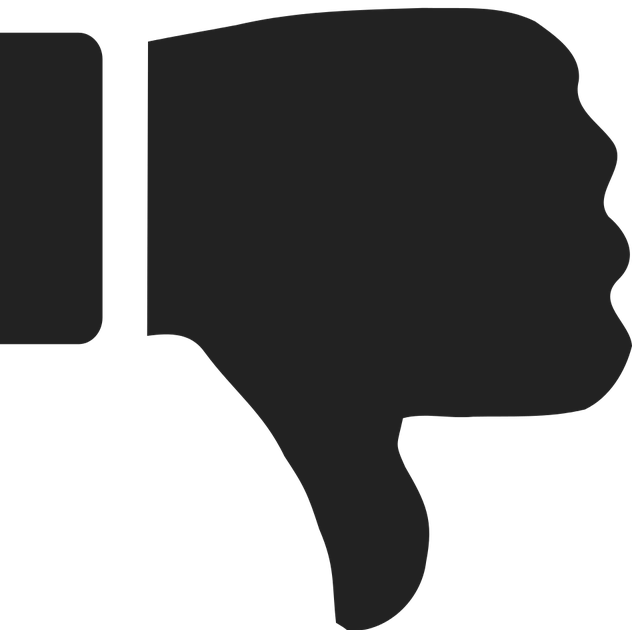
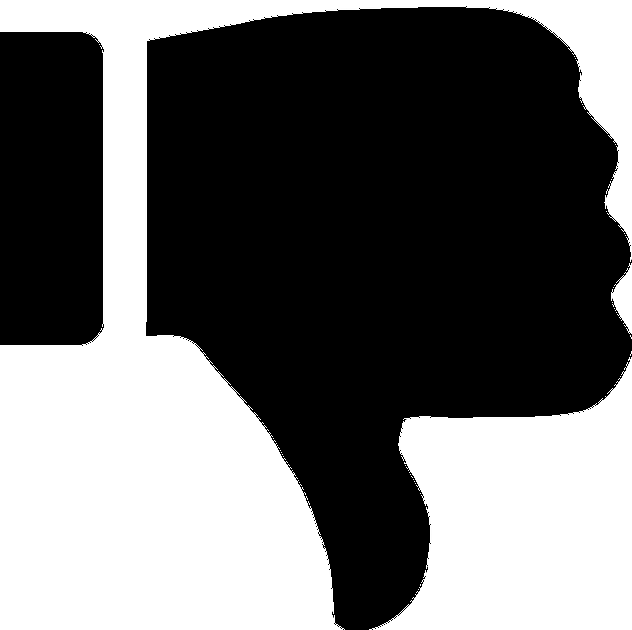
Like dislike function done
Small bug fixes all around the complete website. Like dislike system shows which one is selected

diff --git a/videoshow.php b/videoshow.php
@@ -75,11 +75,41 @@ week 4 door Thijs Rijkers
                             mysqli_stmt_bind_result($stmt, $nt);
                             mysqli_stmt_store_result($stmt);
                             $dislikes = mysqli_stmt_num_rows($stmt);
+                            //Worden alle gegevens opgehaald uit de database van de likes
+                            $userID = $_SESSION['id'];
+                            $VideoID = $_GET["videoid"];
+                            $query = "SELECT liked, disliked FROM likedvideos WHERE videoID = ? AND userID = ?";
+                            if($stmt = mysqli_prepare($DBConnect, $query))
+                            {
+                                if(mysqli_stmt_bind_param($stmt, 'ii', $VideoID, $userID))
+                                {
+                                    if(mysqli_stmt_execute($stmt))
+                                    {
+
+                                    }else {
+                                        echo "er is iets misgegaan. Probeer het later opnieuw";
+                                    }
+                                }else {
+                                    echo "er is iets misgegaan. Probeer het later opnieuw";
+                                }
+                            }
+                            else {
+                                echo "er is iets misgegaan. Probeer het later opnieuw";
+                            }
+                            mysqli_stmt_bind_result($stmt, $liked1, $disliked1);
+                            mysqli_stmt_store_result($stmt);
+                            $rows = mysqli_stmt_num_rows($stmt);
+                            $liked = NULL;
+                            $disliked = NULL;
+                            while(mysqli_stmt_fetch($stmt))
+                            {
+                                $liked = $liked1;
+                                $disliked = $disliked1;
+                            }
                             //select videos
                             $string = "SELECT videoID, videoTitle, videoDescription, videoUploadPath FROM videos WHERE videoID =?";
                             $stmt = mysqli_prepare($DBConnect, $string);                         
                             if ($stmt) {
-
                                 mysqli_stmt_bind_param($stmt, 's', $VideoID);
                                 mysqli_stmt_execute($stmt);
                                 mysqli_stmt_bind_result($stmt, $VideoID, $Title, $Discription, $Path);
@@ -104,30 +134,30 @@ week 4 door Thijs Rijkers
                                                 <input type='submit' name='favorite' value='Add favorite'>
                                             </form></div>
                                             <div class='display'><h4>$videoshow[2]</h4>
-                                            <p>".$Discription."</p></div>
+                                            <p>".$Discription."</p></div>";
+                                        if($liked === "y")
+                                        {
+                                            echo "
+                                                <a href='videoshow.php?videoid=$VideoID&liked=true'><img src='img/tup_selected.png' width='50px' height='50px'>$likes  Vind ik leuk</a>
+                                                <a href='videoshow.php?videoid=$VideoID&liked=false'><img src='img/tdown.png' width='50px' height='50px'>$dislikes Vind ik niet leuk</a>
+                                            </div>";
+                                        }
+                                        elseif($disliked === "y")
+                                        {
+                                            echo "
+                                                <a href='videoshow.php?videoid=$VideoID&liked=true'><img src='img/tup.png' width='50px' height='50px'>$likes  Vind ik leuk</a>
+                                                <a href='videoshow.php?videoid=$VideoID&liked=false'><img src='img/tdown_selected.png' width='50px' height='50px'>$dislikes Vind ik niet leuk</a>
+                                            </div>";
+                                        }
+                                        else {
+                                            echo "
                                                 <a href='videoshow.php?videoid=$VideoID&liked=true'><img src='img/tup.png' width='50px' height='50px'>$likes  Vind ik leuk</a>
                                                 <a href='videoshow.php?videoid=$VideoID&liked=false'><img src='img/tdown.png' width='50px' height='50px'>$dislikes Vind ik niet leuk</a>
-                                                
                                             </div>";
+                                        }
                                     }
                                 }
                                 mysqli_stmt_close($stmt);
-                                $VideoID = $_GET["videoid"];
-                                $string = "SELECT comment, userName FROM comments"
-                                        . "JOIN users ON comment.userID = users.userID"
-                                        . "JOIN videos on comment.videoID = videos.videoID WHERE videoID =?";
-                                $stmt = mysqli_prepare($DBConnect, $string);
-                                if($stmt)
-                                {
-                                    mysqli_stmt_bind_param($stmt, 's', $VideoID);
-                                    mysqli_stmt_execute($stmt);
-                                    mysqli_stmt_bind_result($stmt, $VideoID, $Title, $Discription, $Path);
-                                    mysqli_stmt_store_result($stmt);
-                                    if (mysqli_stmt_num_rows($stmt) == 0)
-                                    {
-                                        echo $videoshow[3];
-                                    }
-                                }
                             } 
                         if (isset($_POST['favorite'])) {
                                 $string2 = "INSERT INTO favorite VALUES (?, ?);";
@@ -138,9 +168,9 @@ week 4 door Thijs Rijkers
                                 if ($stmt) {
                                     mysqli_stmt_bind_param($stmt, 'ss', $idset, $aprove);
                                     mysqli_stmt_execute($stmt);
-                                    echo $videoshow[4];
+                                    echo $videoshow[3];
                                 } else {
-                                    echo "<p>$videoshow[5]</p>";
+                                    echo "<p>$videoshow[4]</p>";
                                 }
                                 mysqli_stmt_close($stmt);
                             }
@@ -153,28 +183,6 @@ week 4 door Thijs Rijkers
                             if($like == 'true')
                             {
                                 $like = 'y';
-                                $query = "SELECT liked, disliked FROM likedvideos WHERE videoID = ? AND userID = ?";
-                                if($stmt = mysqli_prepare($DBConnect, $query))
-                                {
-                                    if(mysqli_stmt_bind_param($stmt, 'ii', $VideoID, $userID))
-                                    {
-                                        if(mysqli_stmt_execute($stmt))
-                                        {
-                                            
-                                        }else {
-                                            echo "er is iets misgegaan. Probeer het later opnieuw";
-                                        }
-                                    }else {
-                                        echo "er is iets misgegaan. Probeer het later opnieuw";
-                                    }
-                                    
-                                }
-                                else {
-                                    echo "er is iets misgegaan. Probeer het later opnieuw";
-                                }
-                                mysqli_stmt_bind_result($stmt, $liked, $disliked);
-                                mysqli_stmt_store_result($stmt);
-                                $rows = mysqli_stmt_num_rows($stmt);
                                 if($rows === 0)
                                 {
                                     $query3 = "INSERT INTO likedvideos (videoID, userID, liked, disliked) VALUES (?,?,?,'n')";
@@ -196,32 +204,34 @@ week 4 door Thijs Rijkers
                                     else {
                                         echo "er is iets misgegaan. Probeer het later opnieuw";
                                     }
+                                    header("refresh: 0");
+                                    exit;
                                 }
                                 else {
-                                    while(mysqli_stmt_fetch($stmt))
+                                    echo mysqli_error($DBConnect);
+                                    if($liked === 'n' && $disliked === 'y')
                                     {
-                                        if($liked === 'n' && $disliked === 'y')
+                                        $query3 = "UPDATE likedvideos SET liked = 'y', disliked = 'n' WHERE videoID = ? AND userID = ?";
+                                        if($stmt = mysqli_prepare($DBConnect, $query3))
                                         {
-                                            $query3 = "UPDATE likedvideos SET liked = 'y', disliked = 'n' WHERE videoID = ? AND userID = ?";
-                                            if($stmt = mysqli_prepare($DBConnect, $query3))
+                                            if(mysqli_stmt_bind_param($stmt, 'ii', $VideoID, $userID))
                                             {
-                                                if(mysqli_stmt_bind_param($stmt, 'ii', $VideoID, $userID))
+                                                if(mysqli_stmt_execute($stmt))
                                                 {
-                                                    if(mysqli_stmt_execute($stmt))
-                                                    {
 
-                                                    }else {
-                                                        echo "er is iets misgegaan. Probeer het later opnieuw";
-                                                    }
                                                 }else {
                                                     echo "er is iets misgegaan. Probeer het later opnieuw";
                                                 }
-
-                                            }
-                                            else {
+                                            }else {
                                                 echo "er is iets misgegaan. Probeer het later opnieuw";
                                             }
+
                                         }
+                                        else {
+                                            echo "er is iets misgegaan. Probeer het later opnieuw";
+                                        }
+                                        header("refresh: 0");
+                                        exit;
                                     }
                                 }
                                 
@@ -231,28 +241,6 @@ week 4 door Thijs Rijkers
                                 if($like == 'false')
                                 {
                                     $like = 'y';
-                                    $query = "SELECT liked, disliked FROM likedvideos WHERE videoID = ? AND userID = ?";
-                                    if($stmt = mysqli_prepare($DBConnect, $query))
-                                    {
-                                        if(mysqli_stmt_bind_param($stmt, 'ii', $VideoID, $userID))
-                                        {
-                                            if(mysqli_stmt_execute($stmt))
-                                            {
-
-                                            }else {
-                                                echo "er is iets misgegaan. Probeer het later opnieuw";
-                                            }
-                                        }else {
-                                            echo "er is iets misgegaan. Probeer het later opnieuw";
-                                        }
-
-                                    }
-                                    else {
-                                        echo "er is iets misgegaan. Probeer het later opnieuw";
-                                    }
-                                    mysqli_stmt_bind_result($stmt, $liked, $disliked);
-                                    mysqli_stmt_store_result($stmt);
-                                    $rows = mysqli_stmt_num_rows($stmt);
                                     if($rows === 0)
                                     {
                                         $query3 = "INSERT INTO likedvideos (videoID, userID, liked, disliked) VALUES (?,?,'n',?)";
@@ -274,32 +262,32 @@ week 4 door Thijs Rijkers
                                         else {
                                             echo "er is iets misgegaan. Probeer het later opnieuw";
                                         }
+                                        header("refresh: 0");
+                                        exit;
                                     }
                                     else {
-                                        while(mysqli_stmt_fetch($stmt))
+                                        if($liked === 'y' && $disliked === 'n')
                                         {
-                                            if($liked === 'y' && $disliked === 'n')
+                                            $query3 = "UPDATE likedvideos SET liked = 'n', disliked = 'y' WHERE videoID = ? AND userID = ?";
+                                            if($stmt = mysqli_prepare($DBConnect, $query3))
                                             {
-                                                $query3 = "UPDATE likedvideos SET liked = 'n', disliked = 'y' WHERE videoID = ? AND userID = ?";
-                                                if($stmt = mysqli_prepare($DBConnect, $query3))
+                                                if(mysqli_stmt_bind_param($stmt, 'ii', $VideoID, $userID))
                                                 {
-                                                    if(mysqli_stmt_bind_param($stmt, 'ii', $VideoID, $userID))
+                                                    if(mysqli_stmt_execute($stmt))
                                                     {
-                                                        if(mysqli_stmt_execute($stmt))
-                                                        {
 
-                                                        }else {
-                                                            echo "er is iets misgegaan. Probeer het later opnieuw";
-                                                        }
                                                     }else {
                                                         echo "er is iets misgegaan. Probeer het later opnieuw";
                                                     }
-
-                                                }
-                                                else {
+                                                }else {
                                                     echo "er is iets misgegaan. Probeer het later opnieuw";
                                                 }
                                             }
+                                            else {
+                                                echo "er is iets misgegaan. Probeer het later opnieuw";
+                                            }
+                                            header("refresh: 0");
+                                            exit;
                                         }
                                     }
                                 }
